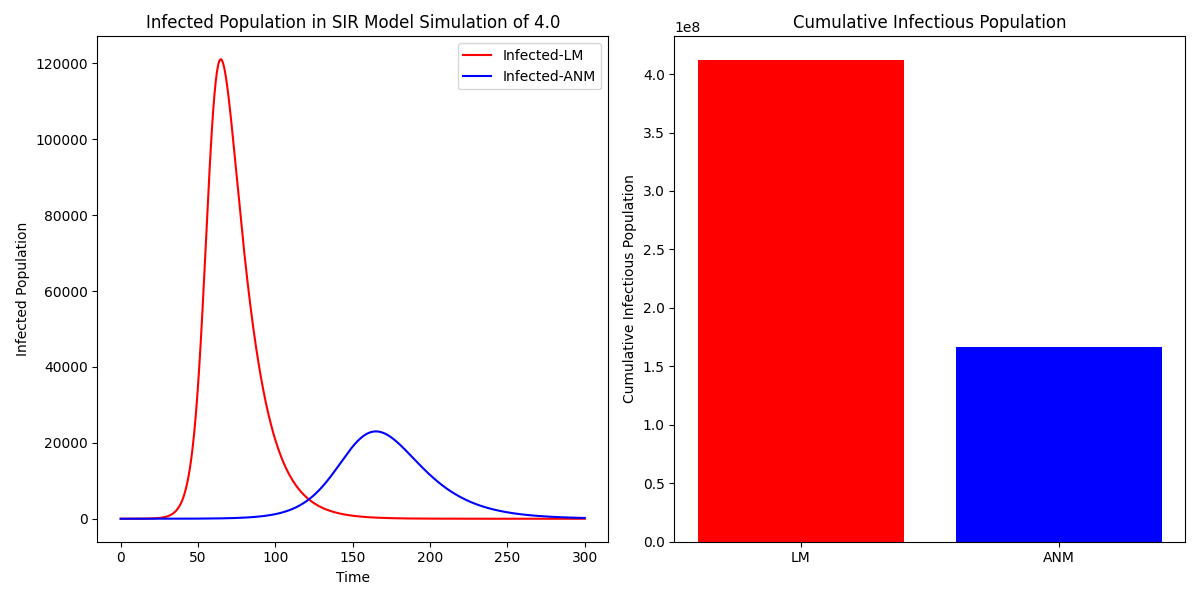
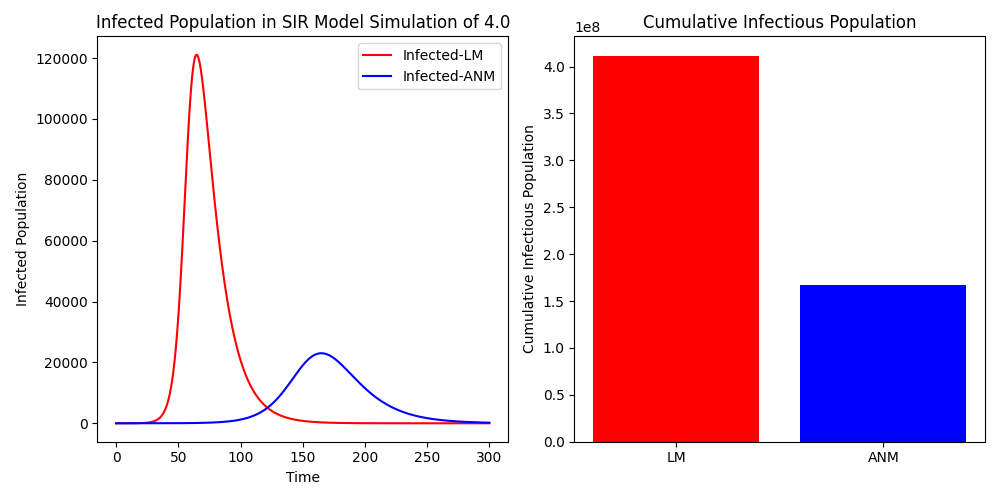
bar plot

diff --git a/hw2/q2/plot_sir.py b/hw2/q2/plot_sir.py
@@ -34,13 +34,11 @@ def main():
     anm_data = forward_euler_solver_anm(args.R_0, args.N, args.VE)
     lm_cumulative_infectious = round(lm_data[5],0)
     anm_cumulative_infectious = round(anm_data[6],0)
-    print(f'cumulative infectious for lm : {lm_cumulative_infectious}')
-    print(f'cumulative infectious for anm : {anm_cumulative_infectious}')
-    with open('data.txt', 'a') as f:
-        f.write(f'{lm_cumulative_infectious}, {anm_cumulative_infectious}\n')
+    # print(f'cumulative infectious for lm : {lm_cumulative_infectious}')
+    # print(f'cumulative infectious for anm : {anm_cumulative_infectious}')
     
     # Plotting
-    fig, (ax1, ax2) = plt.subplots(1, 2, figsize=(12, 6))
+    fig, (ax1, ax2) = plt.subplots(1, 2, figsize=(10, 5))
 
     # Original Plots
     ax1.plot(lm_data[0], lm_data[2], color='red', label='Infected-LM')
